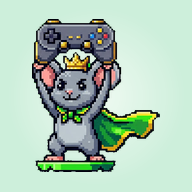
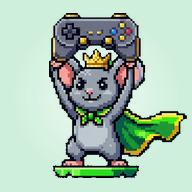
Ícone centralizado pelos pés do mascote
Claude-Session: https://claude.ai/code/session_01G7zC1cdkjy78yWyHSZkE2g

diff --git a/sw.js b/sw.js
@@ -1,4 +1,4 @@
-const CACHE='corrida-v103';
+const CACHE='corrida-v104';
 const ARQS=['./','./index.html','./manifest.json','./icon-192.png','./icon-512.png'];
 self.addEventListener('install',e=>{ e.waitUntil(caches.open(CACHE).then(c=>c.addAll(ARQS.map(u=>new Request(u,{cache:'reload'}))))); self.skipWaiting(); });
 self.addEventListener('activate',e=>{ e.waitUntil(caches.keys().then(ks=>Promise.all(ks.filter(k=>k!==CACHE).map(k=>caches.delete(k))))); self.clients.claim(); });
